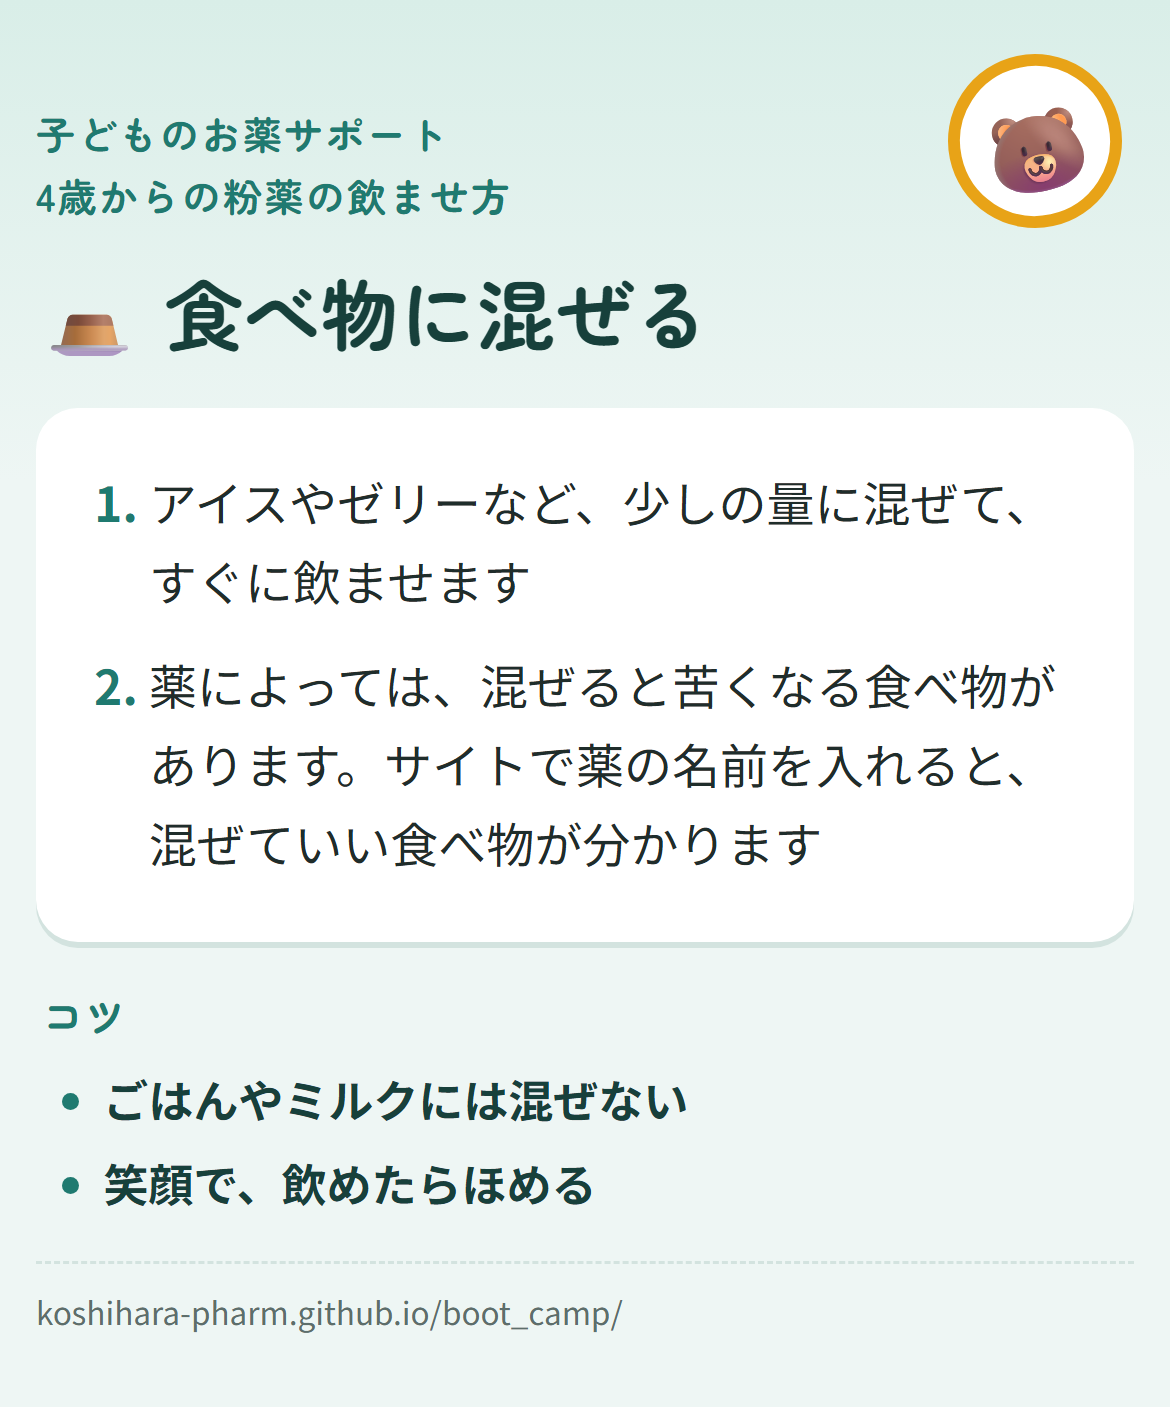
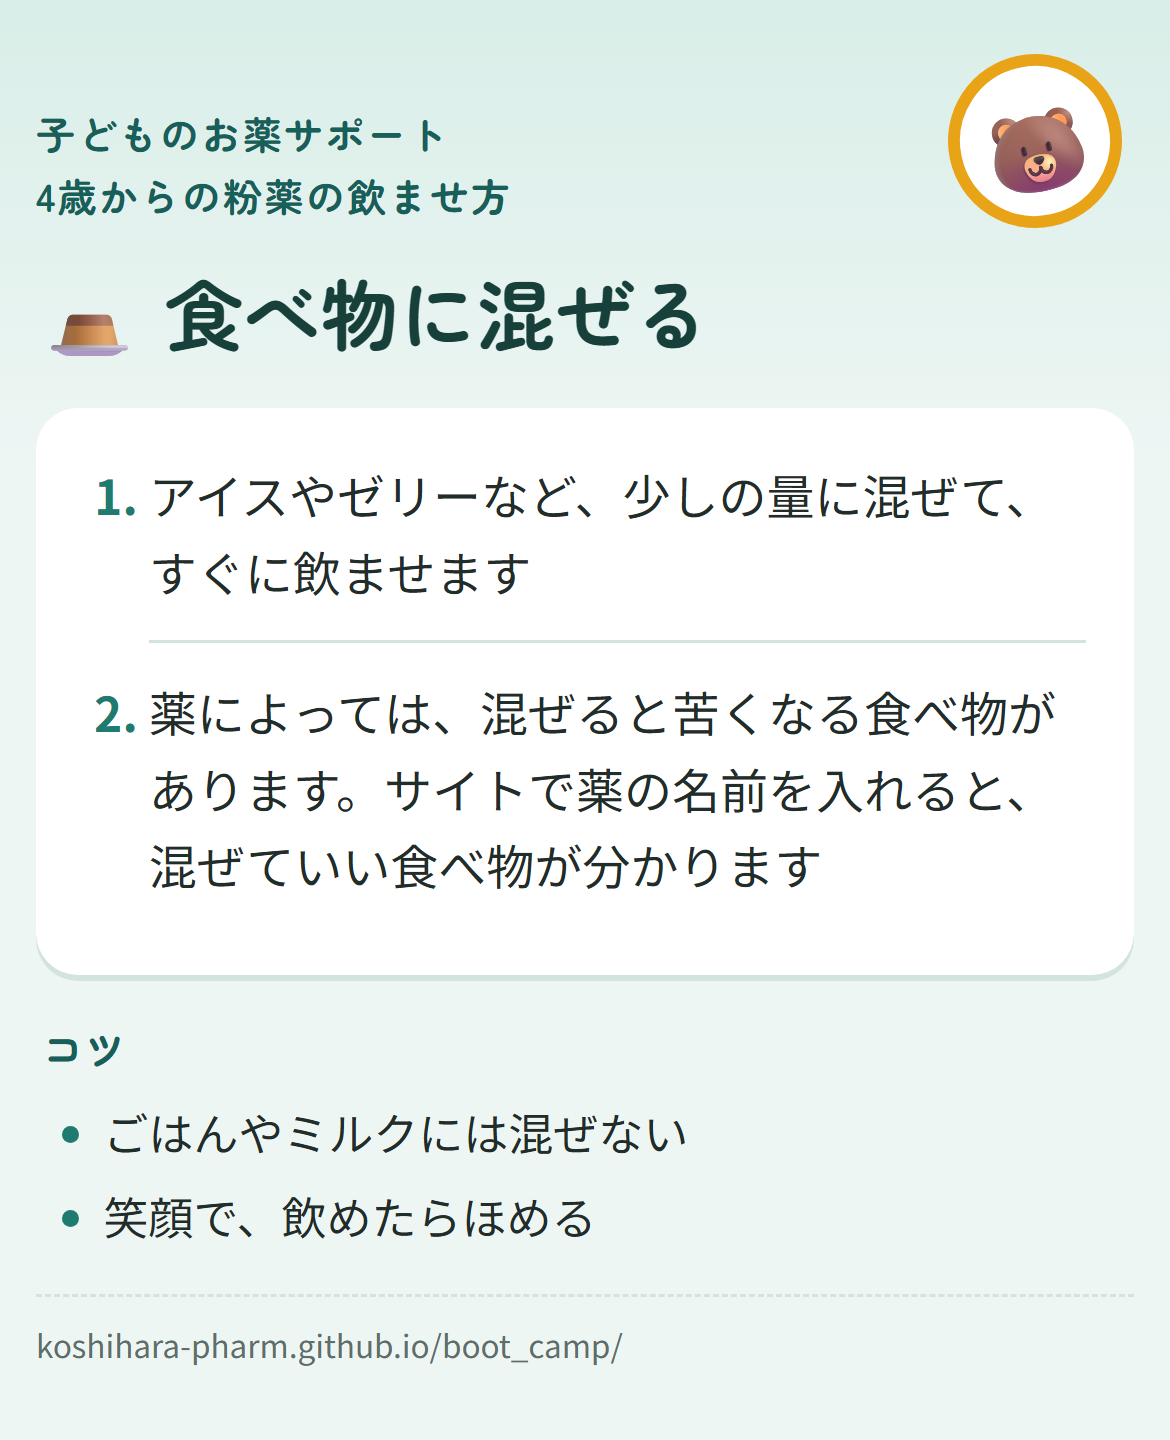
飲ませ方の画像を ui-check で見やすく直し、コツを「コツ」の欄にまとめる
- 画像: 上の小さな文字を濃くする（4.26 → 6.07 対 1）、コツの太字をやめる、手順の間に線を入れる
- 画像とサイト: やり方ごとのコツは、手順の下ではなく「コツ」の欄にまとめる（サイトはやり方の名前つき）
- 確かめた結果を docs/22 に、決めたことを CLAUDE.md に書く

diff --git a/card/card.html b/card/card.html
@@ -19,6 +19,8 @@
     --muted: #5d6e6b;
     --line: #d3e3df;
     --accent: #1f7a70;
+    /* 小さい文字の色。--accent は薄い背景の上で 4.26 対 1 しかないため（docs/22 の 4.5 対 1。2026-11-04 ui-check） */
+    --accent-deep: #17605a;
     --stamp: #e8a317;
     --best-bg: #fff2c4;
     --font-display: "Zen Maru Gothic", "Hiragino Maru Gothic ProN", "Hiragino Sans", "Noto Sans JP", sans-serif;
@@ -53,9 +55,9 @@
     font-size: 30px;
     transform: rotate(-12deg);
   }
-  .eyebrow { margin: 0; font-family: var(--font-display); font-weight: 700; font-size: 12px; color: var(--accent); letter-spacing: 0.06em; }
+  .eyebrow { margin: 0; font-family: var(--font-display); font-weight: 700; font-size: 12px; color: var(--accent-deep); letter-spacing: 0.06em; }
   h1 { margin: 2px 0 14px; font-family: var(--font-display); font-weight: 700; font-size: 23px; line-height: 1.25; color: var(--ink); }
-  h2 { margin: 14px 2px 6px; font-family: var(--font-display); font-weight: 700; font-size: 14px; color: var(--accent); }
+  h2 { margin: 14px 2px 6px; font-family: var(--font-display); font-weight: 700; font-size: 14px; color: var(--accent-deep); }
   .way {
     background: var(--card);
     border-radius: 14px;
@@ -70,14 +72,18 @@
   .way li::marker { color: var(--accent); font-weight: bold; }
   /* コツは縦の箇条書きにする（2026-11-04 ユーザーの指示。前は横に並べた札） */
   .tips { margin: 0; padding-left: 1.4em; }
-  .tips li { font-size: 12.5px; font-weight: bold; color: var(--ink); line-height: 1.6; margin: 2px 0; }
+  /* 太字にしない。手順（主役）より目立たせない（docs/22 第5章。2026-11-04 ui-check） */
+  .tips li { font-size: 12.5px; color: var(--text); line-height: 1.6; margin: 2px 0; }
   .tips li::marker { color: var(--accent); }
+  /* やり方だけのコツも、下の「コツ」の欄にまとめる。手順の中に枠で出さない（2026-11-04 ユーザーの指示。ui-check で手順の下に置いたのを戻した） */
   /* 1つのやり方だけのとき（way= があるとき）は、文字を大きくする */
   .one .eyebrow { font-size: 13px; line-height: 1.6; }
   .one h1 { font-size: 26px; margin: 12px 0 16px; }
-  .one .way { padding: 10px 16px 12px; }
+  .one .way { padding: 6px 16px 14px; }
   .one .way b { display: none; }
-  .one .way li { font-size: 16px; line-height: 1.65; margin: 8px 0; }
+  .one .way li { font-size: 16px; line-height: 1.6; margin: 0; padding: 10px 0; }
+  /* 手順と手順の間に線を引き、どこから次の手順か分かるようにする（2026-11-04 ui-check） */
+  .one .way li + li { border-top: 1px solid var(--line); }
   .one .tips li { font-size: 15px; margin: 4px 0; }
   .foot { margin-top: 14px; padding-top: 8px; border-top: 1px dashed var(--line); font-size: 10.5px; color: var(--muted); }
 </style>

diff --git a/index.html b/index.html
@@ -289,7 +289,9 @@
   .howto summary::after { content: "＋"; color: var(--accent); flex: none; }
   .howto details[open] summary::after { content: "−"; }
   .howto p { margin: 0 0 8px; }
-  .howto .way-tip b { color: var(--accent); }
+  .way-tips { margin: 8px 0 0; padding-left: 1.3em; }
+  .way-tips li { margin-bottom: 8px; }
+  .way-tips b { display: block; font-size: 14px; color: var(--accent); }
   .tips { margin: 0; padding-left: 1.2em; font-size: 16px; }
   .tips li { margin-bottom: 6px; }
   .source { font-size: 14px; color: var(--muted); }
@@ -552,7 +554,6 @@
     const parts = [
       el("summary", { text: m.icon + " " + m.title }),
       el("ol", {}, m.steps.map((s) => el("li", { text: s }))),
-      ...(m.tips || []).map((t) => el("p", { class: "way-tip" }, [el("b", { text: "コツ " }), t])),
     ];
     if (m.to === "mix") {
       const b = el("button", { type: "button", class: "step-next", text: "薬の名前で、混ぜていい食べ物を探す" });
@@ -582,6 +583,9 @@
         el("div", { class: "howto" }, g.items.map((key) => flowItem(key, gi === 0))),
       ]),
       el("p", { class: "flow-group", text: "コツ" }),
+      // やり方ごとのコツも、ここにまとめる。どのやり方のコツか分かるように名前を付ける（2026-11-04 ユーザーの指示。保存用の画像と同じ）
+      el("ul", { class: "way-tips" }, f.groups.flatMap((g) => g.items).flatMap((key) => (METHODS[key].tips || []).map((t) =>
+        el("li", {}, [el("b", { text: METHODS[key].title.replace("おすすめの飲ませ方: ", "") }), t])))),
       el("div", { class: "howto" }, HOWTO.filter((h) => h.ages.includes(f.age) || h.ages.includes("all")).map(howtoItem)),
     ] : []));
     document.getElementById("method-refs").replaceWith(Object.assign(refsBox(METHOD_REFS), { id: "method-refs" }));

diff --git a/CLAUDE.md b/CLAUDE.md
@@ -161,7 +161,7 @@ Claude がやること:
   - 飲ませ方のコツは、まず粉薬にしぼる。「薬の形は？」（粉・シロップ・錠剤）のボタンは外し、年齢だけで選ぶ（2026-10-26 ユーザーの判断）
   - 「のませかたが わからない」の画面は飲ませ方だけにする（「コツ」のタブは 2026-10-27 に外した。ユーザーの指示）。いちばん上で年齢（0〜1歳／1〜3歳／4歳から）を選ぶ。選ぶと、時期の特徴、「まずは水で」の考え方（短く。0〜1歳だけは「甘いものに混ぜる」のかわりに「ミルクには混ぜない」。10-27 ユーザーの指示）、やり方のまとまりが出る（いちばん上のまとまりは全部開く）。0〜1歳: スポイト・哺乳びん・お薬だんご（どれでも。お薬だんごは 10-29 に足した）。1〜3歳: 少しの水でとかす・薬の袋の中で混ぜる・お薬だんご（どれか）→ むずかしいときは食べ物に混ぜる（10-29 に、旭川厚生病院の資料をもとに書き直した）。4歳から: 少しの水でとかす・薬の袋の中で混ぜる・水で「おとな飲み」（なぜ飲むか話すを含む）のどれか（10-29 に足した）。形を変えたいときの相談の1文は 10-27 に外した。4歳からも「むずかしいときは → 混ぜる」を出す（10-27 にいったん外し、同じ日に足し直した）。「混ぜる」からは「まぜていい？」（薬の名前の欄）へ行く。やり方の下に、その年齢のコツを閉じた形で出す。コツはやり方と重ならない4つだけ（服薬ゼリーで包む＝1〜3歳と4歳から、おなかがすいているときに＝0〜1歳、口直し・笑顔でほめる＝全部の年齢）。文は資料に似せず、出どころは各やり方の下ではなくページの下にまとめて出す（2026-10-26、10-27 ユーザーと決定。年齢の順番はくるみ薬局 2019-03-25 の記事から）
   - 「どれで のむ？」（子どもが混ぜていい食べ物を選ぶ）は 2026-10-14 に作ったが、同じ日に外した。毎回選ばせるのは、保護者から見ると手間が大きいため（ユーザーの判断）
-- 保存用の飲ませ方の画像（docs/18 の 7-1。card/年齢-やり方.png。card/make.cjs で data.js から作る）には、出どころと「医師・薬剤師に相談」を入れない。下にサイトの URL だけを置き、出どころはサイトで見てもらう（2026-11-03 ユーザーの判断）。1枚に1つのやり方だけを詳しく出し、コツはやり方ごとの大事なことと、全体に効くことを縦の箇条書きで出す（2026-11-04 ユーザーの判断）
+- 保存用の飲ませ方の画像（docs/18 の 7-1。card/年齢-やり方.png。card/make.cjs で data.js から作る）には、出どころと「医師・薬剤師に相談」を入れない。下にサイトの URL だけを置き、出どころはサイトで見てもらう（2026-11-03 ユーザーの判断）。1枚に1つのやり方だけを詳しく出し、コツはやり方ごとの大事なことと、全体に効くことを縦の箇条書きで出す（2026-11-04 ユーザーの判断）。やり方ごとのコツも、手順の中に枠で出さず、下の「コツ」の欄にまとめる（同日ユーザーの指示。ui-check の「近いものは仲間に見える」より、こちらを取った）。サイトの飲ませ方の画面も同じく、やり方ごとのコツ（data.js の METHODS の tips）は、手順の下ではなく、その年齢の「コツ」の欄にやり方の名前つきでまとめる（同日ユーザーの指示）
 - 今のサイトは、子どもや薬の情報をどこにも保存しない（2026-10-25 に記録とスタンプを外したため）。記録を足し直すときは、端末の中だけに保存し、送るかどうかは親が決める
 - 期間中にやりたいこと（2026-10-17 ユーザー）: なぜ薬を飲むのかの解説（動画）、飲ませ方の実演（動画）、代替薬を提案する機能、デザインの向上。デザインは「今は変えなくていい」（同日）。代替薬は「医療上の判断をしない」に合わせ、別の形があることと医師・薬剤師への相談の導線までにする。詳しくは docs/17
 

diff --git a/docs/22_ui_sekkei.md b/docs/22_ui_sekkei.md
@@ -158,6 +158,21 @@
 
 ## これまでの確認の結果
 
+### 2026-11-04（保存用の飲ませ方の画像 card/*.png の11枚。card/card.html から作る。押す・入れるがないので、操作の結果と入力は見ない）
+
+ユーザーの「絶妙に見にくい」から確かめ、小さく直した（ユーザーが「チェックして直す」と決めた）。
+
+| 観点 | 結果 | 見つかったこと | 直したこと・直す案 |
+|---|---|---|---|
+| 誰でも（第6章） | × → ○ | 上の小さな文字（サイト名と年齢）が 4.26 対 1。2026-11-03 のトップと同じ指摘で、2回目 | 画像では色を濃くした（6.07 対 1）。サイトのトップは、まだ 4.26 のまま |
+| 配置（第5章） | × → ○ | コツ（太字）が手順（細字）より目立ち、主役が逆だった | コツの太字をやめた |
+| 配置（第5章） | △ | やり方だけのコツが、手順から離れ、全体のコツと混ざっていた | いったん手順のすぐ下に黄色の枠で置いたが、ユーザーが「コツはコツの行にまとめて」と決めて戻した。今の形でいいと決めたので、次からは × にしない（CLAUDE.md の「決まったこと」） |
+| 読まなくても分かる（第2章） | △ → ○ | 手順と手順の区切りが弱く、どこから次か分かりにくい | 手順の間に線を入れた |
+| 一貫性（第1章） | △ | 哺乳びんのコツと2つ目の手順、スポイトのコツと3つ目の手順が、ほぼ同じ文 | 様子を見る。重なりが気になれば、手順のほうを短くする |
+| 流れ（第7章） | △ | 0〜1歳の大事な注意「ミルクには混ぜない」が画像にない。「泣いているとき」のコツ（中身はスポイトの話）が哺乳びんとお薬だんごにも出る | 中身のことなので、ユーザー（薬剤師）が決める |
+| 3秒テスト（第2章） | ○ | 見出しのやり方の名前と年齢で、何の画像か分かる | — |
+| 一貫性（第1章） | ○ | サイトの飲ませ方の画面も、画像と同じく、やり方ごとのコツを「コツ」の欄にまとめた（ユーザーの指示）。サイトはやり方が並ぶので、コツの頭にやり方の名前を付けた。幅 390px で横にはみ出さない。やり方の名前の文字は 4.69 対 1（明るい画面）、8.29 対 1（暗い画面） | — |
+
 ### 2026-11-03（初回。スキル ui-check で、トップと「飲ませ方」の画面を幅 390px で確かめた）
 
 | 観点 | 結果 | 見つかったこと | 直す案（決めるのはユーザー） |
